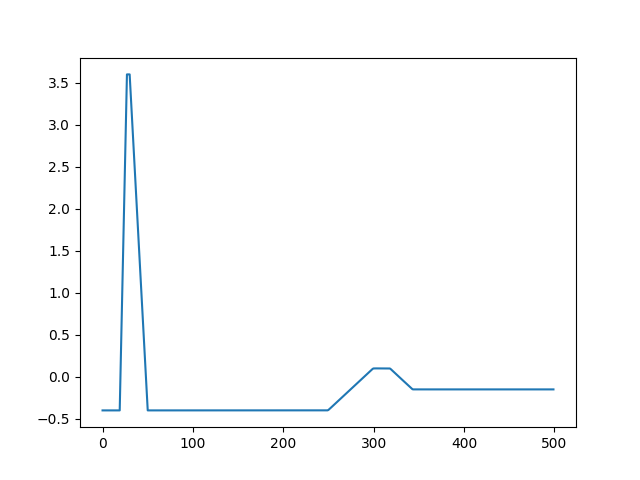
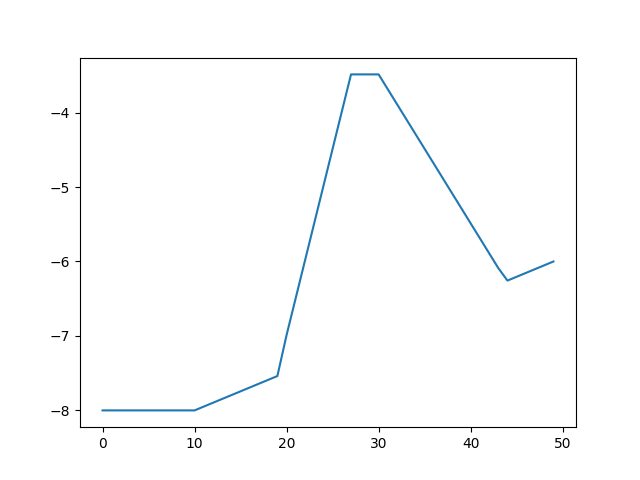
bug fixes and revising test.py

diff --git a/rubblebathy.py b/rubblebathy.py
@@ -13,6 +13,7 @@ def main(argv):
     rslope = None       # rightward slope
     lslope = None       # leftward slope
     toe = None          # structure toe
+    cen = None          # structure center
     h = None            # crest height
     w = None            # crest width
     n = None            # nglob
@@ -20,28 +21,26 @@ def main(argv):
     bathy = None        # bathy array
     toedep = None       # depth at toe of structure
     dx = 1              # dx, default 1 (m)
-    smoothing = True    # smoothing, default True
     friction = None     # friction coef
     farray = None       # friction array
-
     ## operational args
     printfric = False
     debug = False
+    pushtail = True
 
     # parse argv[]
     try:
-        opts, _ = getopt.getopt(argv, 'i:o:r:l:x:h:w:', 
+        opts, _ = getopt.getopt(argv, 'i:o:r:l:x:h:w:c:', 
         ['json=', 'flat=', 'slope=', 'xslope=', 'nglob=', 
-            'mglob=', 'toedep=', 'dx=', 'smoothing', 'frictionfile=', 'friction=',
+            'mglob=', 'toedep=', 'dx=', 'pushtail', 'frictionfile=', 'friction=',
             'debug'])
     except getopt.GetoptError:
         print("Error: invalid usage")
         sys.exit(2)
-    
     for opt, arg in opts:
         if opt in '-i':
             inputfile = arg
-        elif opt in '-o':               # TODO: full implementation
+        elif opt in '-o':               
             outdir = arg
         elif opt in '--json':
             jsonfile = arg
@@ -71,18 +70,19 @@ def main(argv):
             m = int(arg)
         elif opt in '--nglob':
             n = int(arg)
+        elif opt in '--pushtail':
+            pushtail = False
         # elif opt in '--dx':           # NOT SURE IF NEEDED...
         #     dx = float(arg)
         elif opt in '--debug':
             debug = True
 
-    # parse .json
+    # parse .json TODO
     if not jsonfile == None:
         ## import json warning
         if not (rslope == None and lslope == None and toe == None \
                 and w == None and h == None):
             print("warning: importing JSON, ignoring arguments")
-
         ## parse json
         with open(jsonfile) as file:
             x = json.loads(file)
@@ -91,7 +91,36 @@ def main(argv):
                     inputfile = x[key]
                 if key == 'outputdir':
                     outdir = x[key]
-                ### TODO: Parse JSON as such above
+                if key == 'flatdep':
+                    flatdepth = x[key]
+                if key == '--slope':
+                    slope = float(arg)
+                if key ==  '--xslope':
+                    xslope = int(arg)
+                if key ==  '--frictionfile':
+                    frictionfile = arg
+                if key == '--friction':
+                    friction = float(arg)
+                if key == '-r':
+                    rslope = float(arg)
+                if key == '-l':
+                    lslope = float(arg)
+                if key == '-x':
+                    toe = int(arg)
+                if key == '-w':
+                    w = float(arg)
+                if key == '-h':
+                    h = float(arg)
+                if key == '--toedep':
+                    toedep = float(arg)
+                if key == '--mglob':
+                    m = int(arg)
+                if key == '--nglob':
+                    n = int(arg)
+                # if key == '--dx':           # NOT SURE IF NEEDED...
+                #     dx = float(arg)
+                if key == '--debug':
+                    debug = True
     
     # establish bathymetry
     ## data
@@ -125,18 +154,26 @@ def main(argv):
             print('Error: friction coefficient not supplied')
             sys.exit()
         printfric = True
-    
 
     # insert structure
+    ## rslope/lslope correction
+    rslope = rslope * dx
+    lslope = lslope * dx
+    ## toe vs center of crest width check
+    if not toe == None and not cen == None:
+        print("Error: found toe and center of crest width argument, terminating")
+        sys.exit()
     ## check for input toe depth
     if toedep == None:
         toedep = 0
         for y in bathy[:, toe]:
             toedep += y
         toedep = toedep / bathy[:, toe].size
-    ## add structure on depth
+    ## add structure on depth by toe
     for y in range(n):
         for x in range(toe, toe + int(h / rslope + w + h / lslope)):
+            if x >= m:
+                break
             if x < toe + h / lslope:
                 if bathy[y, x] > toedep - lslope * (x - toe + 1):
                     bathy[y, x] = toedep - lslope * (x - toe + 1)
@@ -150,12 +187,20 @@ def main(argv):
                      (h / rslope + w + h / lslope - x + toe - 2)
             if printfric:
                 farray[y, x - 1] = friction               
+    ## adjustment -- push tail to bottom
+    if pushtail:
+        for y in range(n):
+            x = toe + int(h / rslope + w + h / lslope) - 1
+            if x >= m:
+                break
+            while toedep - rslope * (h / rslope + w + h / lslope - x + toe - 2) < bathy[y, x]:
+               bathy[y, x] = toedep - rslope * (h / rslope + w + h / lslope - x + toe - 2)
+               x += 1
     ## smoothing
 
     # output
     if outdir == None:
         outdir = os.getcwd()
-
     if debug:
         np.savetxt(os.path.join(outdir, 'test.txt'), bathy, fmt='%.6E')
     np.savetxt(os.path.join(outdir,'depth.txt'), bathy, fmt='%.6E')

diff --git a/test.py b/test.py
@@ -35,11 +35,24 @@ data = np.loadtxt("test.txt")
 
 plt.figure()
 plt.plot(range(500), -data[2,])
-plt.savefig("test4")
+plt.savefig("test5")
 
 os.system('python3 rubblebathy.py --debug --frictionfile 0.1 --friction 0.5 --flat 8 --mglob 50 --nglob 3 -l 0.5 -r 0.5 -x 20 -h 4 -w 5')
 data = np.loadtxt("test.txt")
 
 plt.figure()
 plt.plot(range(1, 51), -data[1,])
-plt.savefig("test5")
+plt.savefig("test6")
+
+data = np.loadtxt("samplebath.txt")
+
+plt.figure()
+plt.plot(range(300), -data[2,])
+plt.savefig("samplebathy.png")
+
+os.system('python3 rubblebathy.py --debug -i samplebath.txt -l 0.03 -r 0.1 -x 100 -h 2 -w 30')
+data = np.loadtxt("test.txt")
+
+plt.figure()
+plt.plot(range(300), -data[1,])
+plt.savefig("test7")

diff --git a/README.md b/README.md
@@ -1,2 +1,2 @@
-# rubble_bathy.py
-WIP
+# rubblebathy.py
+
